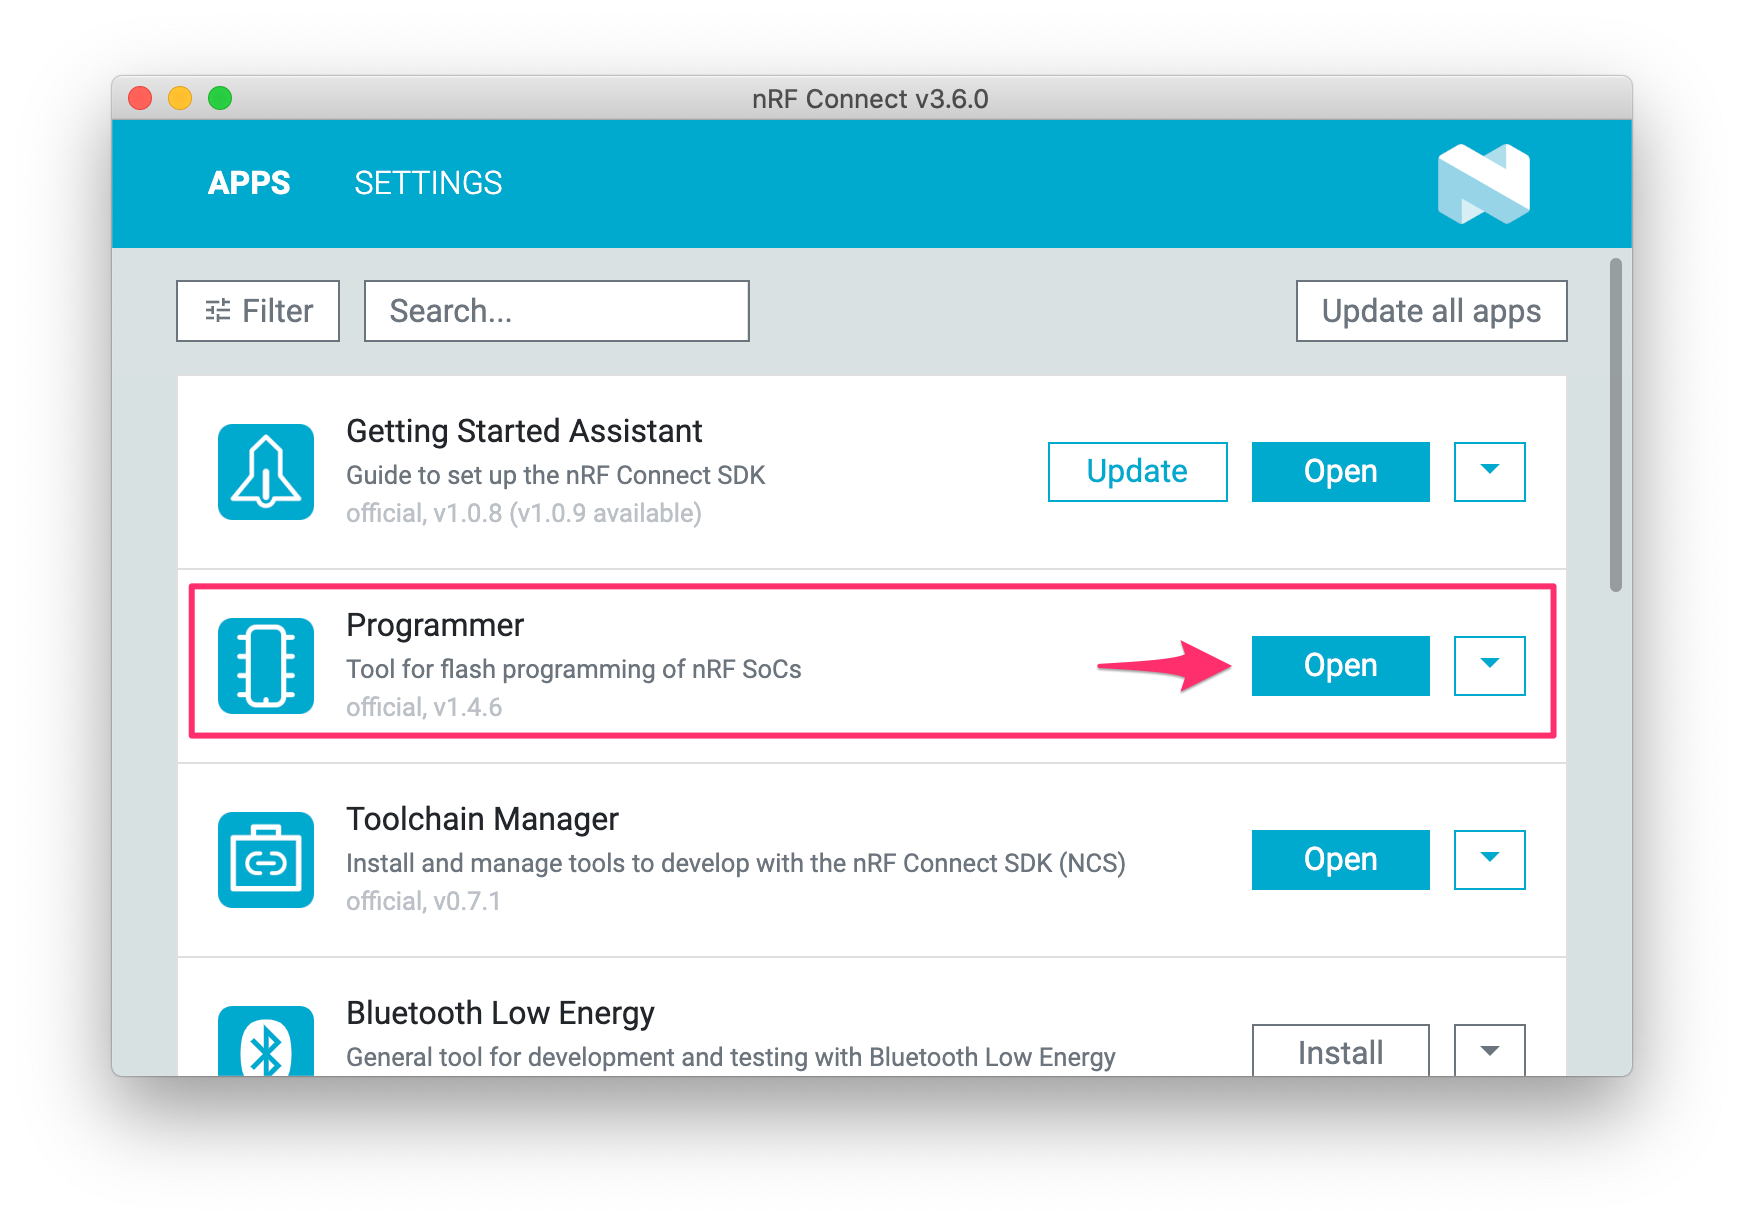
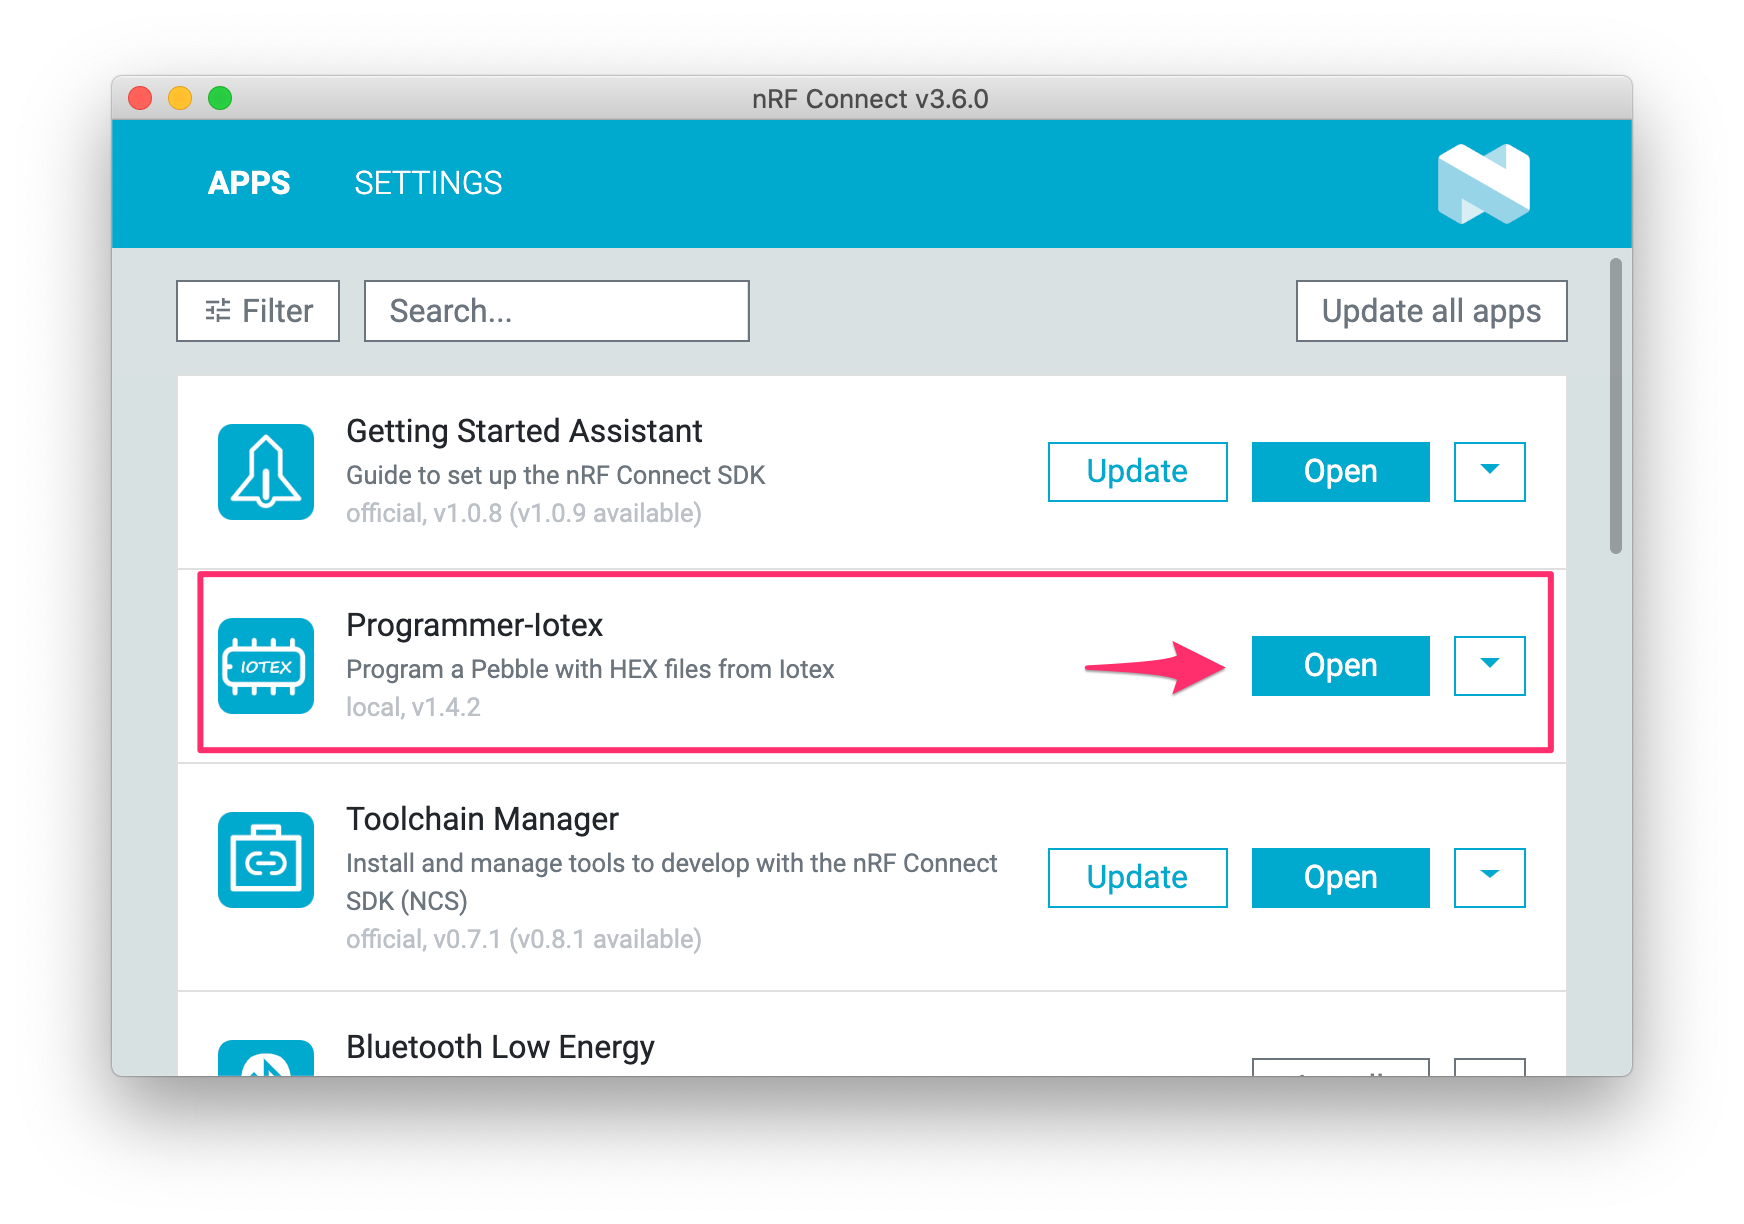
Fixed Pebble programmer app path and screenshot

diff --git a/docs/developer/hardware/pebble-flash.md b/docs/developer/hardware/pebble-flash.md
@@ -87,20 +87,20 @@ You will need to install a custom Programmer app for nrf Connect, that is includ
 ::: tab Windows
 In Windows, extract in the following path:
 
-`%userprofile%/.nrfconnect-apps/node_modules/`
+`%userprofile%/.nrfconnect-apps/local/`
 :::
 
 ::: tab Linux
 In Linux, extract in the following path:
 
-`~/.nrfconnect-apps/node_modules/`
+`~/.nrfconnect-apps/local/`
 
 :::
 
 ::: tab MacOS
 In MacOS, extract in the following path:
 
-`~/.nrfconnect-apps/node_modules/`
+`~/.nrfconnect-apps/local/`
 
 :::
 
